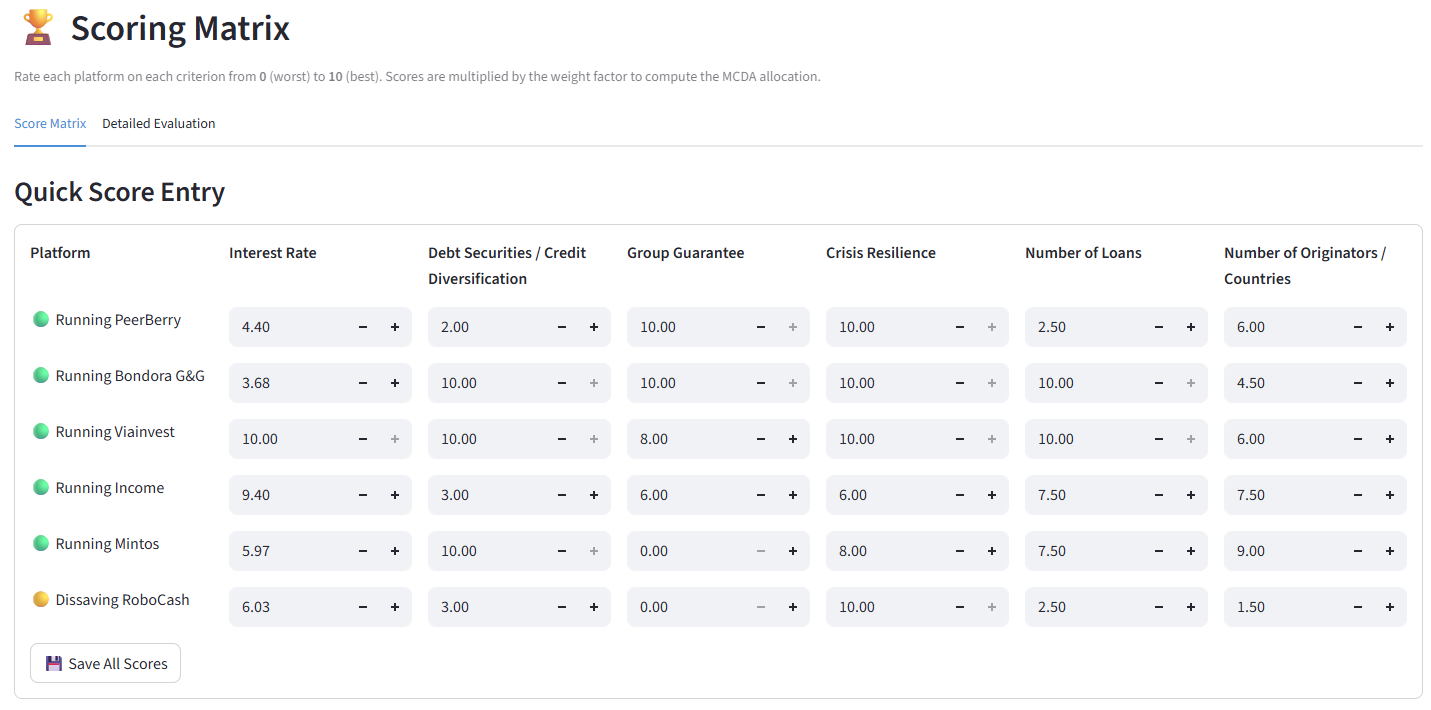
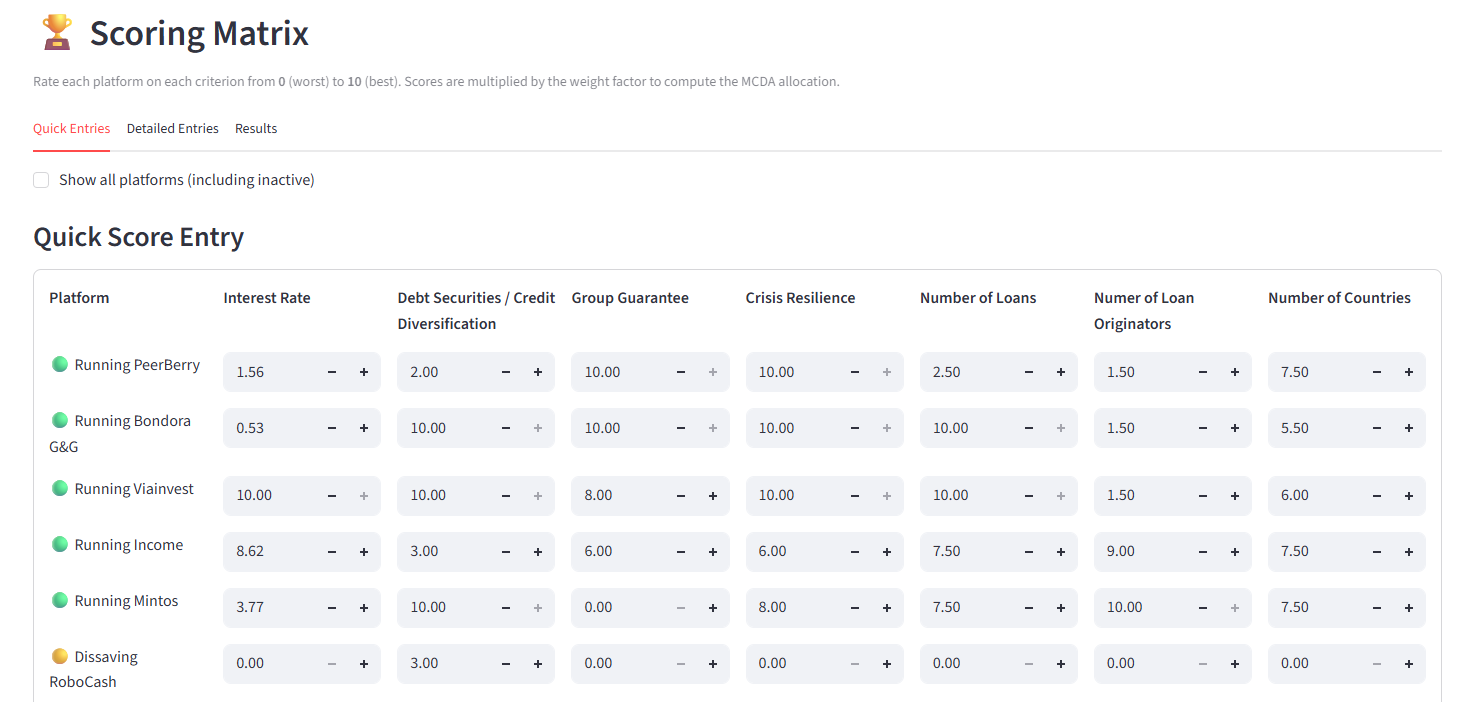
:memo: Update README and screenshots

diff --git a/README.md b/README.md
@@ -2,24 +2,25 @@
 
 A **Streamlit** web application for managing P2P lending investment portfolios using **Multi-Criteria Decision Analysis (MCDA)**. It helps determine optimal fund allocation across platforms, track balances, and monitor deviations from your target portfolio.
 
-## Screenshots
+## Features
+
+- **Rebalancing dashboard** — current vs target pie charts, deviation bar chart, KPI metrics, off-budget pockets
 ![alt text](doc/img/image.png)
+- **Portfolio & platform management** with status tracking (Running / Dissaving / Defaulted / Closed)
+- **MCDA allocation** — custom criteria, pairwise weighting matrix, 0–10 scoring per platform
 ![alt text](doc/img/image-1.png)
 ![alt text](doc/img/image-2.png)
 ![alt text](doc/img/image-3.png)
-![alt text](doc/img/image-4.png)
-![alt text](doc/img/image-5.png)
-
-## Features
-
-- **Portfolio & platform management** with status tracking (Running / Dissaving / Defaulted / Closed)
-- **MCDA allocation** — custom criteria, pairwise weighting matrix, 0–10 scoring per platform
-- **Rebalancing dashboard** — current vs target pie charts, deviation bar chart, KPI metrics, off-budget pockets
 - **Balance tracking** — snapshots per platform & date, history with deletion
+![alt text](doc/img/image-4.png)
 - **Interest rate comparison** — bar chart with min/avg/max stats
+![alt text](doc/img/image-6.png)
 - **Loan originator tracking** — per-platform originators with country, loan count, 11 priority-ordered statuses; allocation (manual or equal)
-- **Country status management** — color-coded indicators, country flags, per-platform allocation (manual or equal), fund distribution chart, cross-platform status matrix; country inheritance from originator data
+![alt text](doc/img/image-7.png)
+- **Country status management** — color-coded indicators, per-platform allocation (manual or equal), fund distribution chart, cross-platform status matrix; country inheritance from originator data
+![alt text](doc/img/image-8.png)
 - **Auto-score equations** — configurable formulas for interest-rate, country-count, and originator-count criteria
+![alt text](doc/img/image-9.png)
 
 ## Architecture
 
